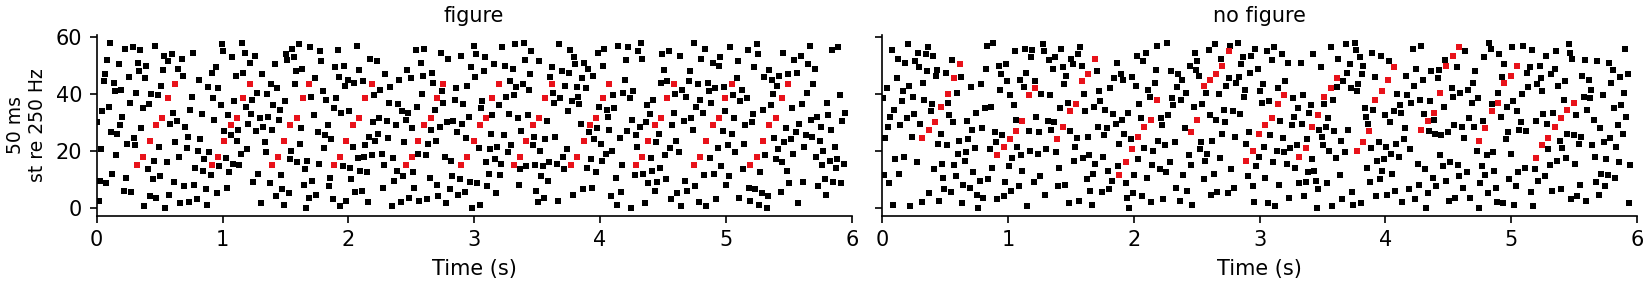
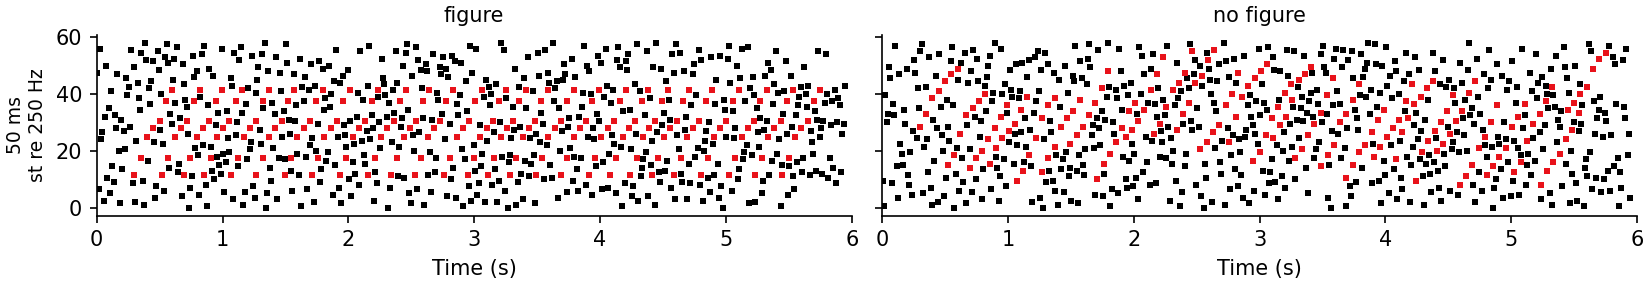
audios/sfg_task: 5 Hz, with the elements allowed to overlap
The figure now repeats at the speech rate it was always meant to, jittered
40 ms either way, 27 times in a 6 s interval.  A 350 ms element against a
200 ms period means nearly two of them sound at once at the wide delays,
which is the thing the non-overlapping version existed to prevent.  Chosen
knowingly.

What it buys: contrast goes from 2.4x, where the first listener sat at
chance everywhere but 0 ms, to 6.3x, within reach of chord-grid
figure-ground.

What it costs, measured rather than argued: a figure tone is sounding 23% of
the time at 0 ms and 93% at 50 ms, and the most that ever sound together
falls from seven to three.  Same tone count, same rate, same contrast, very
different object at the two ends of the sweep.  Both numbers are now rows in
the battery, and both are identical between the two intervals of a trial, so
neither is a cue.  The other cost is that at 6.3x the seven figure channels
stand up to 0.8 dB above the absent interval in a third-octave band against
a 0.2 dB noise floor, which makes `scatter` a more important control than it
was.

The 5 Hz pulse I expected to be audible is not: the levelling removes it,
0.02 dB at the figure rate in both intervals at every delay.

Two things the schedule needed.  Overlapping elements can want the same
channel at the same moment, or two channels inside one critical band, so
where there is something to redraw it is redrawn; measured, this bites once
[…]

Changed region(s): [[0.0618, 0.1404, 0.9891, 0.7298]]

diff --git a/audios/sfg_task/config.py b/audios/sfg_task/config.py
@@ -74,17 +74,23 @@ class Design:
 
     # --- one interval -------------------------------------------------
     # Long, because the figure has to be found by accumulating evidence over
-    # elements rather than caught in one.  A fixed number of elements per
-    # interval, at irregular spacing.
-    # Successive elements never overlap -- at 50 ms per step a figure is
-    # 350 ms long -- so the number of coherent components sounding at once
-    # is the same in every condition.
+    # elements rather than caught in one.
+    #
+    # Elements repeat at `rate_hz` and ARE ALLOWED TO OVERLAP.  At 5 Hz the
+    # period is 200 ms and a 50 ms-per-step element is 350 ms long, so at
+    # the wide delays nearly two elements sound at once and the figure is a
+    # continuous ascending stream rather than a discrete object.  The number
+    # of coherent components sounding therefore varies with delay, which the
+    # non-overlapping version was built to avoid.  It is matched between the
+    # two intervals of a trial, so it cannot be a cue, but it does mean the
+    # conditions differ in more than asynchrony.  Chosen deliberately, to
+    # keep the figure at a speech rate.
     interval_s: float = 6.0
-    events: int = 11
+    rate_hz: float = 5.0
+    jitter_ms: float = 40.0      # +- on each interval between elements, so
+                                 # the rhythm is not isochronous
     lead_ms: float = 300.0
     tail_ms: float = 200.0
-    gap_guard_ms: float = 60.0   # silence between the end of one element and
-                                 # the onset of the next
 
     # --- level --------------------------------------------------------
     rms_dbfs: float = -26.0      # calibrate this to 65 dB SPL once
@@ -168,21 +174,26 @@ class Design:
 
     @property
     def max_extent(self) -> int:
-        """In slots, over every step in the experiment -- so the spacing of
-        the elements can be identical in every condition."""
+        """In slots, over every step in the experiment -- so the room left
+        for the elements is identical in every condition."""
         return int(round(self.extent_ms(max(self.steps_ms)) / self.hop_ms))
 
     @property
-    def min_gap(self) -> int:
-        return self.max_extent + int(round(self.gap_guard_ms / self.hop_ms))
+    def span(self) -> int:
+        """Slots between the first element onset and the last."""
+        return self.n_slots - self.tail - self.max_extent - self.lead
 
     @property
-    def slack(self) -> int:
-        """Slots left over to spread among the gaps, which is what makes the
-        rhythm irregular."""
-        first = self.lead
-        last = self.n_slots - self.tail - self.max_extent
-        return last - first - (self.events - 1) * self.min_gap
+    def events(self) -> int:
+        """Elements per interval, from the rate and the room available."""
+        return max(2, int(round(self.rate_hz * self.span * self.hop_ms / 1000)) + 1)
+
+    @property
+    def min_gap(self) -> int:
+        """Two elements may overlap, but a channel may not sound twice at
+        once: every element uses the same channels, so the interval between
+        elements has to clear one tone plus its rest."""
+        return int(round((self.tone_ms + self.guard_ms) / self.hop_ms))
 
     @property
     def n_per_step(self) -> int:
@@ -209,11 +220,12 @@ class Design:
             raise ValueError("bg_sounding must be at least 1")
         if self.ramp_ms * 2 > self.tone_ms:
             raise ValueError("ramps do not fit inside the tone")
-        if self.slack < 0:
+        if self.span < (self.events - 1) * self.min_gap:
             raise ValueError(
-                f"{self.events} elements of {self.extent_ms(max(self.steps_ms)):.0f} ms "
-                f"do not fit in {self.interval_s} s: shorten the interval's "
-                f"lead/tail, drop an element, or lengthen the interval")
+                f"{self.events} elements at {self.rate_hz:g} Hz need gaps of "
+                f"{self.min_gap * self.hop_ms:.0f} ms and there is only "
+                f"{self.span * self.hop_ms:.0f} ms of room: slow the rate, "
+                f"shorten the tones, or lengthen the interval")
         if self.task not in ("2ifc", "yesno"):
             raise ValueError("task must be '2ifc' or 'yesno'")
 
@@ -221,7 +233,8 @@ class Design:
         span = 12 * math.log2(self.f_hi / self.f_lo)
         n_ch = int(span / self.grid_st) + 1
         bg = self.density * 1000.0 / self.hop_ms
-        rate = self.events / (self.interval_s - (self.lead_ms + self.tail_ms) / 1000)
+        rate = self.rate_hz
+        ov = self.extent_ms(max(self.steps_ms)) * rate / 1000.0
         lines = [
             f"{self.task}  {len(self.steps_ms)} steps "
             f"{', '.join(f'{s:g}' for s in self.steps_ms)} ms  x "
@@ -233,12 +246,12 @@ class Design:
             f"  cloud     {self.bg_sounding} tones sounding, "
             f"{bg:.0f} onsets/s, {bg / n_ch:.2f}/s per channel",
             f"  figure    {self.coherence} tones over {self.fig_span_st:g} st, "
-            f"{self.events} elements per interval at {rate:.2f}/s "
-            f"-> contrast {1 + rate / (bg / n_ch):.1f}x",
+            f"{self.events} elements per interval at {rate:g} Hz "
+            f"+-{self.jitter_ms:g} ms -> contrast "
+            f"{1 + self.events / self.interval_s / (bg / n_ch):.1f}x",
             f"  element   {self.extent_ms(min(self.steps_ms)):.0f}-"
-            f"{self.extent_ms(max(self.steps_ms)):.0f} ms long, "
-            f"gaps {self.min_gap * self.hop_ms:.0f}-"
-            f"{(self.min_gap + self.slack) * self.hop_ms:.0f} ms",
+            f"{self.extent_ms(max(self.steps_ms)):.0f} ms long against a "
+            f"{1000 / rate:.0f} ms period, so up to {ov:.1f} sound at once",
             f"  session   {self.n_trials * self.trial_s / 60:.0f} min "
             f"+ practice + {self.n_trials // self.break_every} breaks",
         ]

diff --git a/audios/sfg_task/stimulus.py b/audios/sfg_task/stimulus.py
@@ -67,13 +67,17 @@ def comb(d: Design, pl: dict, rng: np.random.Generator,
     hi = pl["n"] - 1 - lo - width
     if hi < 0:
         raise ValueError("figure band does not fit inside the pool")
-    for _ in range(500):
-        b = lo + int(rng.integers(0, hi + 1))
-        ch = _draw(d, pl, np.arange(b, b + width + 1), rng)
-        if ch is None:
-            continue
-        if all(np.intersect1d(ch, a).size <= 1 for a in avoid or ()):
-            return ch
+    # Twenty-seven draws that pairwise share at most one channel is a tight
+    # packing, and an unlucky one must not end a session.  Relax the rule
+    # rather than raise; the battery reports what was actually achieved.
+    for limit in (1, 2, 3):
+        for _ in range(200):
+            b = lo + int(rng.integers(0, hi + 1))
+            ch = _draw(d, pl, np.arange(b, b + width + 1), rng)
+            if ch is None:
+                continue
+            if all(np.intersect1d(ch, a).size <= limit for a in avoid or ()):
+                return ch
     raise ValueError("no figure draw left that avoids the earlier elements")
 
 
@@ -120,12 +124,23 @@ def redrawn(d: Design, step_ms: float, rng: np.random.Generator) -> np.ndarray:
 
 
 def element_onsets(d: Design, rng: np.random.Generator) -> np.ndarray:
-    """Irregular element onsets, in slots, with the spacing every condition
-    shares: the minimum gap is set by the longest element in the experiment,
-    not by this condition's."""
-    cuts = np.sort(rng.integers(0, d.slack + 1, d.events))
-    parts = np.diff(np.concatenate(([0], cuts, [d.slack])))[:d.events]
-    return d.lead + np.cumsum(parts) + np.arange(d.events) * d.min_gap
+    """Element onsets, in slots: `rate_hz` with `jitter_ms` either way.
+
+    The intervals are rescaled to fill the same span in every condition, so
+    the rate and the element count do not move with the delay.  Elements may
+    overlap; what may not happen is a channel sounding twice at once, which
+    is what `min_gap` protects."""
+    n = d.events
+    mean = d.span / (n - 1)
+    j = d.jitter_ms / d.hop_ms
+    for _ in range(200):
+        gaps = mean + rng.uniform(-j, j, n - 1)
+        gaps = gaps * (d.span / gaps.sum())
+        g = np.round(gaps).astype(int)
+        g[-1] += d.span - g.sum()
+        if g.min() >= d.min_gap:
+            return d.lead + np.concatenate(([0], np.cumsum(g)))
+    raise ValueError("jitter_ms is too wide for this rate")
 
 
 def scatter_onsets(d: Design, rng: np.random.Generator) -> np.ndarray:
@@ -165,14 +180,25 @@ def schedule(d: Design, pl: dict, rng: np.random.Generator, *,
             for s in ts:
                 put(c, s, 0)
     else:
-        combs = []
+        # Overlapping elements can collide: two of them can want the same
+        # channel at the same moment, or two channels inside one critical
+        # band.  Where there is something to redraw, redraw it.
+        combs, clash = [], 0
         for i, s0 in enumerate(ons):
-            ch = (combs[0] if coherent and combs
-                  else comb(d, pl, rng, avoid=None if coherent else combs))
+            fixed = coherent and variant != "redraw"
+            for attempt in range(120):
+                ch = (combs[0] if coherent and combs
+                      else comb(d, pl, rng, avoid=None if coherent else combs))
+                lg = redrawn(d, step_ms, rng) if variant == "redraw" else lag
+                cand = [(int(c), int(s0 + l)) for c, l in zip(ch, lg)
+                        if 0 <= s0 + l < d.n_slots]
+                if fixed or not any(busy[c, s:s + d.k].any() for c, s in cand):
+                    break
+            else:
+                clash += 1
             combs.append(ch)
-            lg = redrawn(d, step_ms, rng) if variant == "redraw" else lag
-            for c, l in zip(ch, lg):
-                put(c, s0 + l, i)
+            for c, s in cand:
+                put(c, s, i)
     fig_ch = combs[0]
 
     # Exactly `bg_sounding` background tones sound at every instant: over any
@@ -209,7 +235,8 @@ def schedule(d: Design, pl: dict, rng: np.random.Generator, *,
         gain[elem == i] = comb_gain(pl, ch, target)
     return dict(chan=chan, slot=slot, gain=gain, is_fig=is_fig,
                 fig_ch=fig_ch, onsets=ons, lag=lag, step_ms=step_ms,
-                coherent=coherent, variant=variant)
+                coherent=coherent, variant=variant,
+                clash=locals().get("clash", 0))
 
 
 # ---------------------------------------------------------------- render

diff --git a/audios/sfg_task/verify.py b/audios/sfg_task/verify.py
@@ -45,7 +45,7 @@ def verify(d: Design, step_ms: float, n: int = 12, variant: str = "rise",
     acc: dict[str, list] = {k: [[], []] for k in
                             ("tones", "snd_lo", "snd_hi", "rms", "fig", "bg",
                              "epoch", "band", "elem_cv", "repeat", "beat",
-                             "flat", "low")}
+                             "flat", "low", "fmax", "duty")}
     for i in range(n):
         for j, sch in enumerate(trial(d, pl, step_ms=step_ms, seed=9000 + i,
                                       variant=variant, rove=False)):
@@ -84,6 +84,12 @@ def verify(d: Design, step_ms: float, n: int = 12, variant: str = "rise",
             acc["elem_cv"][j].append(pw.std() / pw.mean())
             acc["repeat"][j].append(rep)
             acc["flat"][j].append(sch["flat_db"])
+            fs_ = np.zeros(d.n_slots + d.k)
+            for x in sch["slot"][sch["is_fig"]]:
+                fs_[x:x + d.k] += 1
+            inner_f = fs_[d.k:d.n_slots - d.k]
+            acc["fmax"][j].append(inner_f.max())
+            acc["duty"][j].append(100 * (inner_f > 0).mean())
 
             # tones sounding at once inside one critical band, which is what
             # a listener hears as a beating or warbling partial
@@ -134,6 +140,8 @@ def verify(d: Design, step_ms: float, n: int = 12, variant: str = "rise",
         d_band_db=float(np.abs(band_d).max()),
         elem_gain_cv=(m["elem_cv"][0], m["elem_cv"][1]),
         beating=(m["beat"][0], m["beat"][1]),
+        fig_sounding=(m["fmax"][0], m["fmax"][1]),
+        fig_duty=(m["duty"][0], m["duty"][1]),
         flat_db=(m["flat"][0], m["flat"][1]),
         low_pct=(m["low"][0], m["low"][1]),
         shared_channels=(m["repeat"][0], m["repeat"][1]),
@@ -150,6 +158,8 @@ ROWS = [
     ("contrast", "contrast", "{:.2f}"),
     ("element loudness peak, dB", "elem_peak_db", "{:.2f}"),
     ("element power spread, CV", "elem_gain_cv", "{:.4f}"),
+    ("figure tones at once, most", "fig_sounding", "{:.1f}"),
+    ("figure sounding, % of time", "fig_duty", "{:.0f}"),
     ("beating pairs (< 1 ERB)", "beating", "{:.0f}"),
     ("levelling gain, dB range", "flat_db", "{:.2f}"),
     ("energy below 400 Hz, %", "low_pct", "{:.0f}"),

diff --git a/audios/sfg_task/__main__.py b/audios/sfg_task/__main__.py
@@ -196,7 +196,7 @@ def main(argv=None) -> int:
         q.add_argument("--steps-ms", type=float, nargs="+")
         q.add_argument("--coherence", type=int)
         q.add_argument("--bg-sounding", type=int)
-        q.add_argument("--events", type=int)
+        q.add_argument("--rate-hz", type=float)
         q.add_argument("--interval-s", type=float)
         q.add_argument("--trials-per-step", type=int)
         q.add_argument("--order", choices=("rise", "fall"))

diff --git a/audios/sfg_task/README.md b/audios/sfg_task/README.md
@@ -98,7 +98,9 @@ these. Construction arguments are not evidence.
 
 | control | how |
 |---|---|
-| tone count | identical by construction; measured, 672 in both |
+| tone count | identical by construction; measured, 784 in both |
+| figure tones at once | identical in both intervals at every delay |
+| figure duty cycle | identical in both intervals at every delay |
 | tones sounding | identical range at every step |
 | long-term level | RMS-normalised, 0.000 dB apart |
 | long-term spectrum | within 0.4 dB in any third-octave band |
@@ -108,6 +110,7 @@ these. Construction arguments are not evidence.
 | element loudness cue | present minus absent, against the same measure split within one condition. The difference (0.10 to 0.13 dB) sits below the noise floor of the measurement (0.14 to 0.17 dB) |
 | element power | equalised per draw, against the power the background actually realised. CV 0.0000 in both |
 | beating | no two tones inside one critical band at once: 0 pairs, at every step |
+| envelope at the figure rate | 0.02 dB in both intervals, at every delay: the levelling removes the 5 Hz pulse entirely |
 | accidental coherence | no two elements of a figure-absent interval share more than one channel |
 | figure position | uniform over the allowed range, redrawn every trial, so it is never in a learnable place |
 | overall level | roved 3 dB either way per interval |
@@ -121,8 +124,9 @@ no criterion; proportion correct maps straight to d'. Yes/no is available
 (`--task yesno`), which doubles the trials per step so false alarms can be estimated per
 step.
 
-Practice runs at 0 ms with feedback until 8 of the last 10 are right. Then 20 trials at
-each of 7 steps, 140 trials, about 35 minutes with three self-paced breaks.
+Practice runs at 0 ms with feedback until 8 of the last 10 are right, and says so if it
+ends below criterion rather than sliding into the main block. Then 20 trials at each of
+7 steps, 140 trials, about 35 minutes with three self-paced breaks.
 
 The trial line does not show the step. A subject who can see the condition will use it.
 `--show-step` puts it back for when you are testing the runner yourself, and the data
@@ -268,10 +272,22 @@ sessions halve that. Decide which you need before running twenty people once.
 
 ## What is not controlled, and cannot be
 
-* Element extent grows with step. A 0 ms element is 50 ms long, a 50 ms element is
-  350 ms. That is the manipulation, not a confound, but it does mean the conditions
-  differ in more than asynchrony. `perm` and `scatter` are what bound the alternative
-  explanations.
+* **The figure changes character across the sweep, not just its asynchrony.** A 0 ms
+  element is 50 ms long and puts seven tones on at once; a 50 ms element is 350 ms long,
+  overlaps its neighbour, and never has more than three tones sounding together.
+  Measured, a figure tone is sounding 23% of the time at 0 ms and 93% at 50 ms, and the
+  most that ever sound together falls from 7 to 3. Same total tone count, same rate,
+  same contrast, very different object. This is inherent to running a 350 ms element at
+  a 200 ms period and was chosen deliberately to keep the figure at a speech rate; the
+  alternative is to cap the sweep at 25 ms, which is what a non-overlapping 5 Hz figure
+  allows. `perm` and `scatter` are what bound the alternative explanations, and this is
+  the first limitation a referee will find.
+* **The long-term spectrum carries more of the answer than it used to.** At 6.3x
+  contrast the seven figure channels stand up to 0.8 dB above the figure-absent interval
+  in a third-octave band, against a measurement noise floor of 0.2 dB. A listener could
+  in principle use that rather than temporal coherence. `scatter`, which has the
+  identical long-term spectrum and no temporal coherence at all, is the control that
+  separates them, and it matters more at this contrast than it did at 2.4x.
 * Contrast is 2.5x, against roughly 10x for chord-grid figure-ground. A 350 ms element
   cannot repeat at 20 Hz, and a slow figure has a low contrast. Detection at 0 ms should
   be good rather than perfect, which is what you want, or the sweep starts at ceiling.
